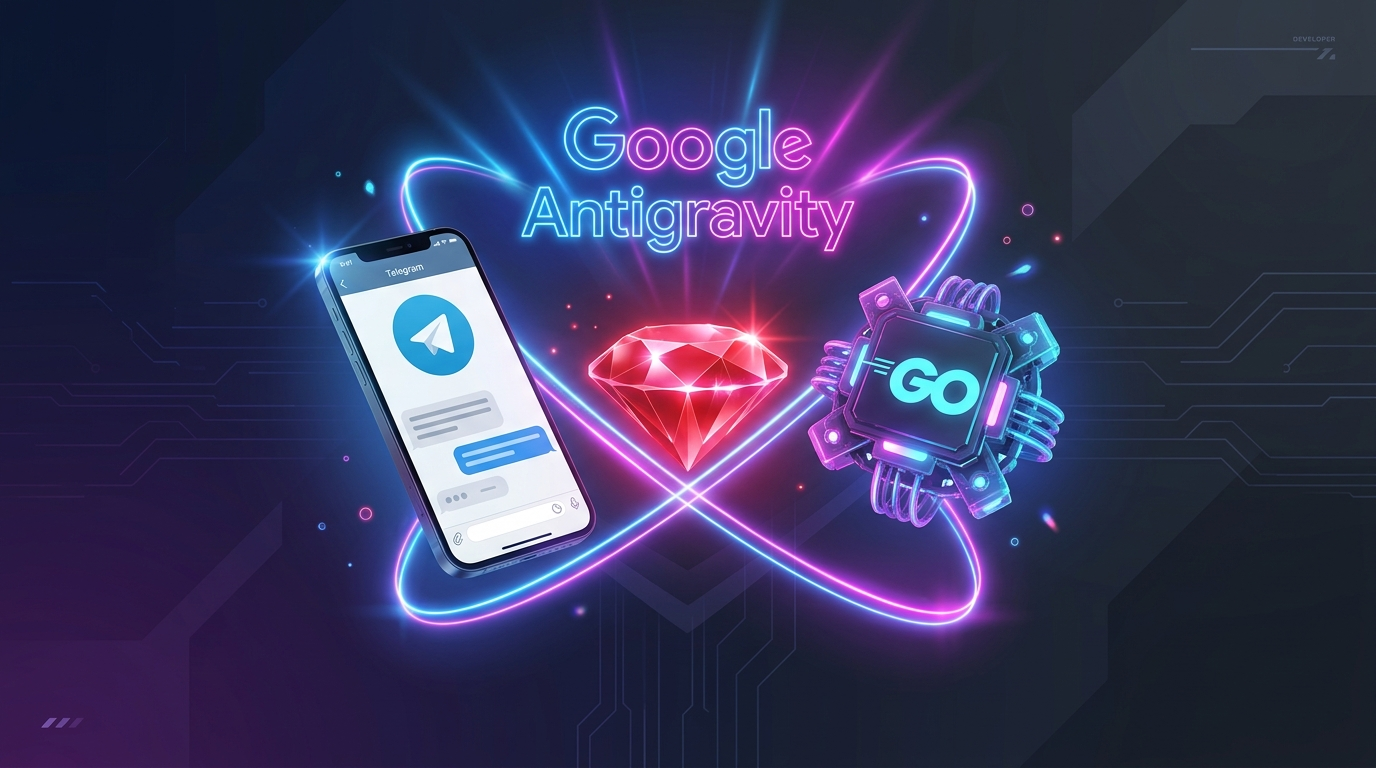
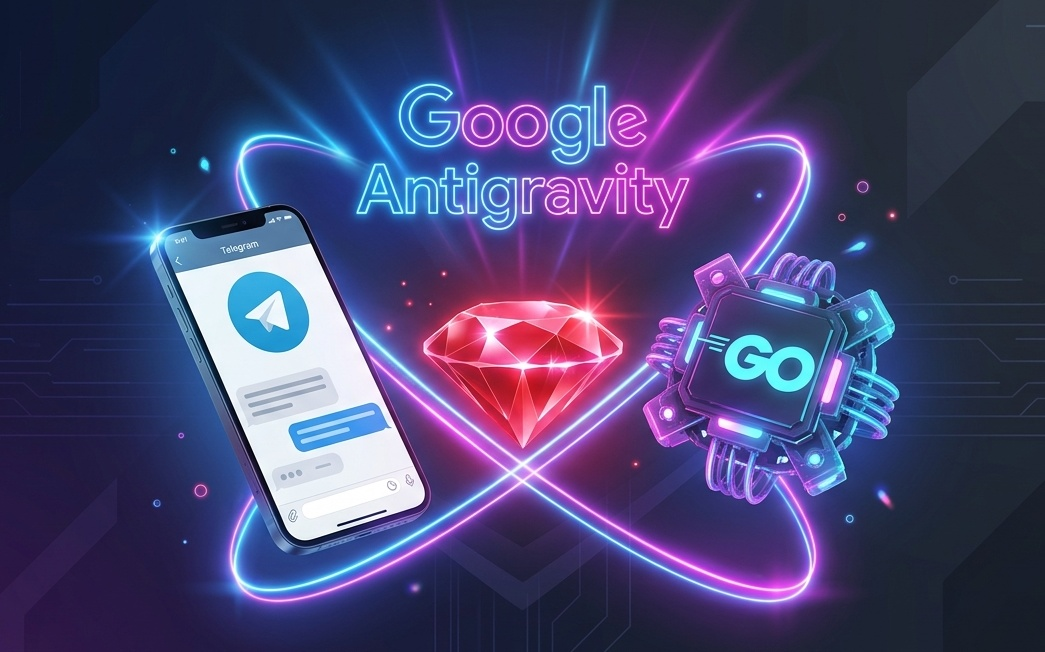
✂ Crop hero image borders for tighter focus by Antigravity

diff --git a/zzo.ricc.rocks/content/en/posts/technology/2026-08-13-antigravity-ruby-sdk-article/index.md b/zzo.ricc.rocks/content/en/posts/technology/2026-08-13-antigravity-ruby-sdk-article/index.md
@@ -195,15 +195,11 @@ agent.hooks.on(:ws_message) do |msg|
 end
 ```
 
+Instrumenting the TUI was never this easy! *Decorate this, Python!* :)
+
 **Zero lines of debug code in the core SDK.** All observability is opt-in, external, and composable. This is the Ruby way.
 
-### Ruby idiom spotlight: `Hash.new` with default block
 
-```ruby
-@listeners = Hash.new { |h, k| h[k] = [] }
-```
-
-This auto-creates an empty array for any new event name. No `if @listeners[event].nil?` boilerplate. When you call `@listeners[:ws_message]`, it returns `[]` if the key doesn't exist yet. Chef's kiss.
 
 ## The Dynamic TUI Status Line
 
